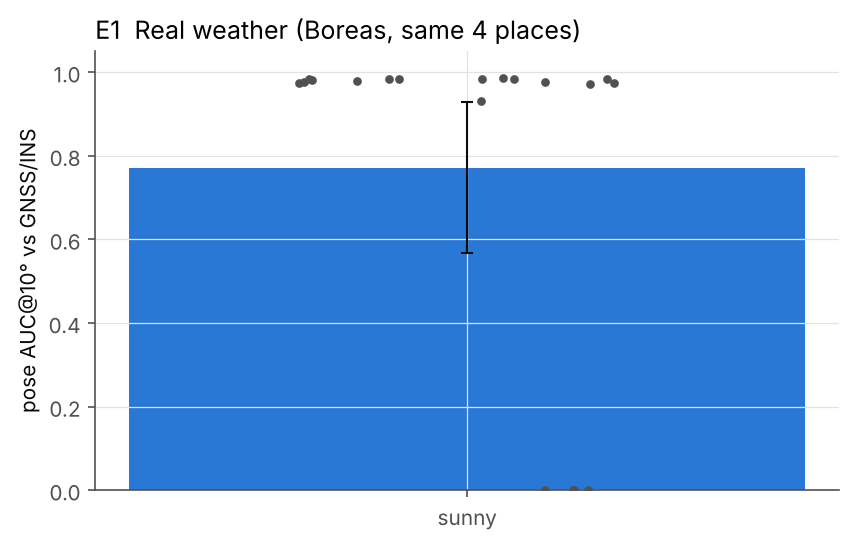
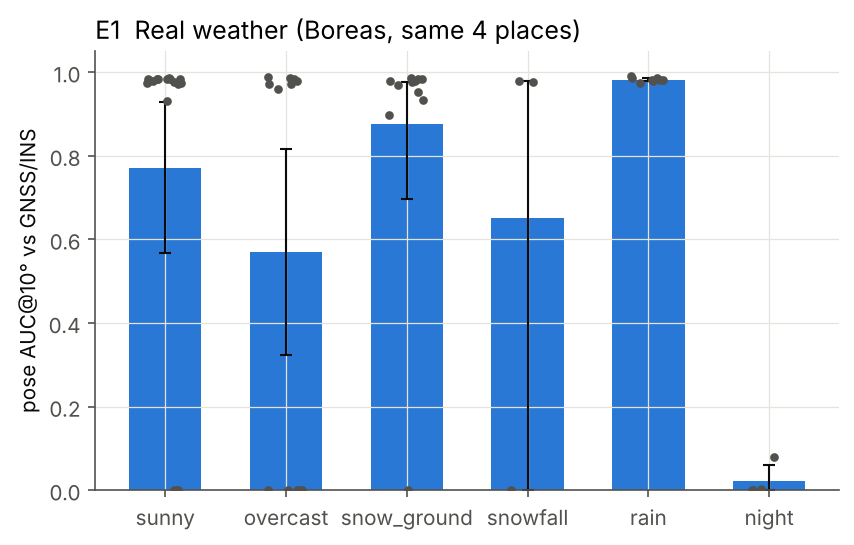
Analysis fixes; results update; SD-Turbo strength examples
Claude-Session: https://claude.ai/code/session_01DwFUuxyVwkhujN2CBgQS9g

diff --git a/scripts/analyze.py b/scripts/analyze.py
@@ -57,7 +57,8 @@ def agg(df, keys, metrics=(METRIC, "reg_frac")):
             mu, lo, hi = ci(g[m])
             r[m], r[m + "_lo"], r[m + "_hi"] = mu, lo, hi
         rows.append(r)
-    return pd.DataFrame(rows)
+    cols = list(keys) + ["n"] + [m + sfx for m in metrics for sfx in ("", "_lo", "_hi")]
+    return pd.DataFrame(rows, columns=cols)
 
 
 def severity_curves(df, perturbs, title, path, clean_val=None):

diff --git a/results/summary.md b/results/summary.md
@@ -5,7 +5,7 @@ Metric: pose AUC@10° over all input image pairs (unregistered = failure) and re
 
 ## Clean baseline
 
-3 runs, AUC@10 = 0.969 (std 0.003), registration 1.000.
+5 runs, AUC@10 = 0.970 (std 0.003), registration 1.000.
 
 
 ## E2a  Analytic corruptions
@@ -14,6 +14,9 @@ Metric: pose AUC@10° over all input image pairs (unregistered = failure) and re
 
 | perturb | severity | n | auc@10 | reg_frac |
 |---|---|---|---|---|
+| contrast | 1 | 1 | 0.927 | 1.000 |
+| contrast | 3 | 1 | 0.579 | 0.780 |
+| contrast | 5 | 1 | 0.000 | 0.000 |
 | gaussian_blur | 1 | 1 | 0.918 | 1.000 |
 | gaussian_blur | 3 | 1 | 0.159 | 0.420 |
 | gaussian_blur | 5 | 1 | 0.000 | 0.000 |
@@ -32,6 +35,48 @@ Metric: pose AUC@10° over all input image pairs (unregistered = failure) and re
 | shot_noise | 1 | 1 | 0.475 | 0.720 |
 | shot_noise | 3 | 1 | 0.035 | 0.200 |
 | shot_noise | 5 | 1 | 0.000 | 0.040 |
+| underexpose | 1 | 1 | 0.971 | 1.000 |
+| underexpose | 3 | 1 | 0.567 | 0.820 |
+| underexpose | 5 | 1 | 0.198 | 0.460 |
+
+
+## E1s  Synthetic weather incl. desert
+
+![](figures/e1_synth_weather.png)
+
+| perturb | severity | n | auc@10 | reg_frac |
+|---|---|---|---|---|
+| fog | 1 | 1 | 0.970 | 1.000 |
+| fog | 3 | 1 | 0.566 | 0.780 |
+| fog | 5 | 1 | 0.333 | 0.600 |
+| harsh_sun | 1 | 1 | 0.972 | 1.000 |
+| harsh_sun | 3 | 1 | 0.474 | 0.740 |
+| harsh_sun | 5 | 1 | 0.335 | 0.640 |
+| heat_shimmer | 1 | 1 | 0.969 | 1.000 |
+| heat_shimmer | 3 | 1 | 0.969 | 1.000 |
+| heat_shimmer | 5 | 1 | 0.955 | 1.000 |
+| night | 1 | 1 | 0.940 | 1.000 |
+| night | 3 | 1 | 0.530 | 0.760 |
+| night | 5 | 1 | 0.000 | 0.040 |
+| rain | 1 | 1 | 0.967 | 1.000 |
+| rain | 3 | 1 | 0.554 | 0.780 |
+| rain | 5 | 1 | 0.328 | 0.600 |
+| sandstorm | 1 | 1 | 0.955 | 1.000 |
+| sandstorm | 3 | 1 | 0.558 | 0.780 |
+| sandstorm | 5 | 1 | 0.330 | 0.600 |
+| snow | 1 | 1 | 0.570 | 0.780 |
+| snow | 3 | 1 | 0.241 | 0.520 |
+| snow | 5 | 1 | 0.000 | 0.040 |
+
+
+## E4  Crowds
+
+![](figures/e4_crowds.png)
+
+| mitigation | severity | n | auc@10 | reg_frac |
+|---|---|---|---|---|
+| mask | 1 | 1 | 0.968 | 1.000 |
+| none | 1 | 1 | 0.969 | 1.000 |
 
 
 ## E1  Real weather (Boreas)
@@ -41,14 +86,42 @@ Metric: pose AUC@10° over all input image pairs (unregistered = failure) and re
 | stratum | n | auc@10 | reg_frac |
 |---|---|---|---|
 | sunny | 19 | 0.771 [0.57, 0.93] | 0.789 [0.58, 0.95] |
+| overcast | 12 | 0.570 [0.32, 0.82] | 0.588 [0.34, 0.84] |
+| snow_ground | 11 | 0.877 [0.70, 0.98] | 0.909 [0.73, 1.00] |
+| snowfall | 3 | 0.652 [0.00, 0.98] | 0.667 [0.00, 1.00] |
+| rain | 8 | 0.982 [0.98, 0.99] | 1.000 [1.00, 1.00] |
+| night | 4 | 0.021 [0.00, 0.06] | 0.530 [0.27, 0.83] |
 
 
 Per sequence:
 
 | stratum | seq | n | auc@10 | reg_frac |
 |---|---|---|---|---|
+| night | boreas-2021-09-14-20-00 | 4 | 0.021 [0.00, 0.06] | 0.530 [0.27, 0.83] |
+| overcast | boreas-2020-11-26-13-58 | 4 | 0.726 [0.24, 0.97] | 0.762 [0.29, 1.00] |
+| overcast | boreas-2021-01-19-15-08 | 4 | 0.737 [0.25, 0.98] | 0.750 [0.25, 1.00] |
+| overcast | boreas-2021-11-16-14-10 | 4 | 0.247 [0.00, 0.74] | 0.250 [0.00, 0.75] |
+| rain | boreas-2021-04-29-15-55 | 4 | 0.982 [0.98, 0.99] | 1.000 [1.00, 1.00] |
+| rain | boreas-2021-07-20-17-33 | 4 | 0.983 [0.98, 0.98] | 1.000 [1.00, 1.00] |
+| snow_ground | boreas-2020-12-01-13-26 | 4 | 0.956 [0.92, 0.98] | 1.000 [1.00, 1.00] |
+| snow_ground | boreas-2021-01-15-12-17 | 3 | 0.975 [0.95, 0.99] | 1.000 [1.00, 1.00] |
+| snow_ground | boreas-2021-02-02-14-07 | 4 | 0.724 [0.24, 0.98] | 0.750 [0.25, 1.00] |
+| snowfall | boreas-2021-01-26-11-22 | 3 | 0.652 [0.00, 0.98] | 0.667 [0.00, 1.00] |
 | sunny | boreas-2020-12-18-13-44 | 3 | 0.983 [0.98, 0.98] | 1.000 [1.00, 1.00] |
 | sunny | boreas-2021-04-08-12-44 | 4 | 0.736 [0.25, 0.99] | 0.750 [0.25, 1.00] |
 | sunny | boreas-2021-06-03-16-00 | 4 | 0.734 [0.24, 0.98] | 0.750 [0.25, 1.00] |
 | sunny | boreas-2021-08-05-13-34 | 4 | 0.490 [0.00, 0.98] | 0.500 [0.00, 1.00] |
 | sunny | boreas-2021-11-23-14-27 | 4 | 0.966 [0.94, 0.98] | 1.000 [1.00, 1.00] |
+
+
+## E7  Cross-season localisation
+
+![](figures/e7_xseason.png)
+
+| stratum | n | query_reg | cross_auc@10 |
+|---|---|---|---|
+| sunny | 3 | 1.000 [1.00, 1.00] | 0.929 [0.92, 0.94] |
+| overcast | 3 | 1.000 [1.00, 1.00] | 0.942 [0.93, 0.96] |
+| snow_ground | 2 | 1.000 [1.00, 1.00] | 0.937 [0.93, 0.94] |
+| rain | 2 | 1.000 [1.00, 1.00] | 0.934 [0.93, 0.94] |
+| night | 1 | 0.000 | 0.000 |
